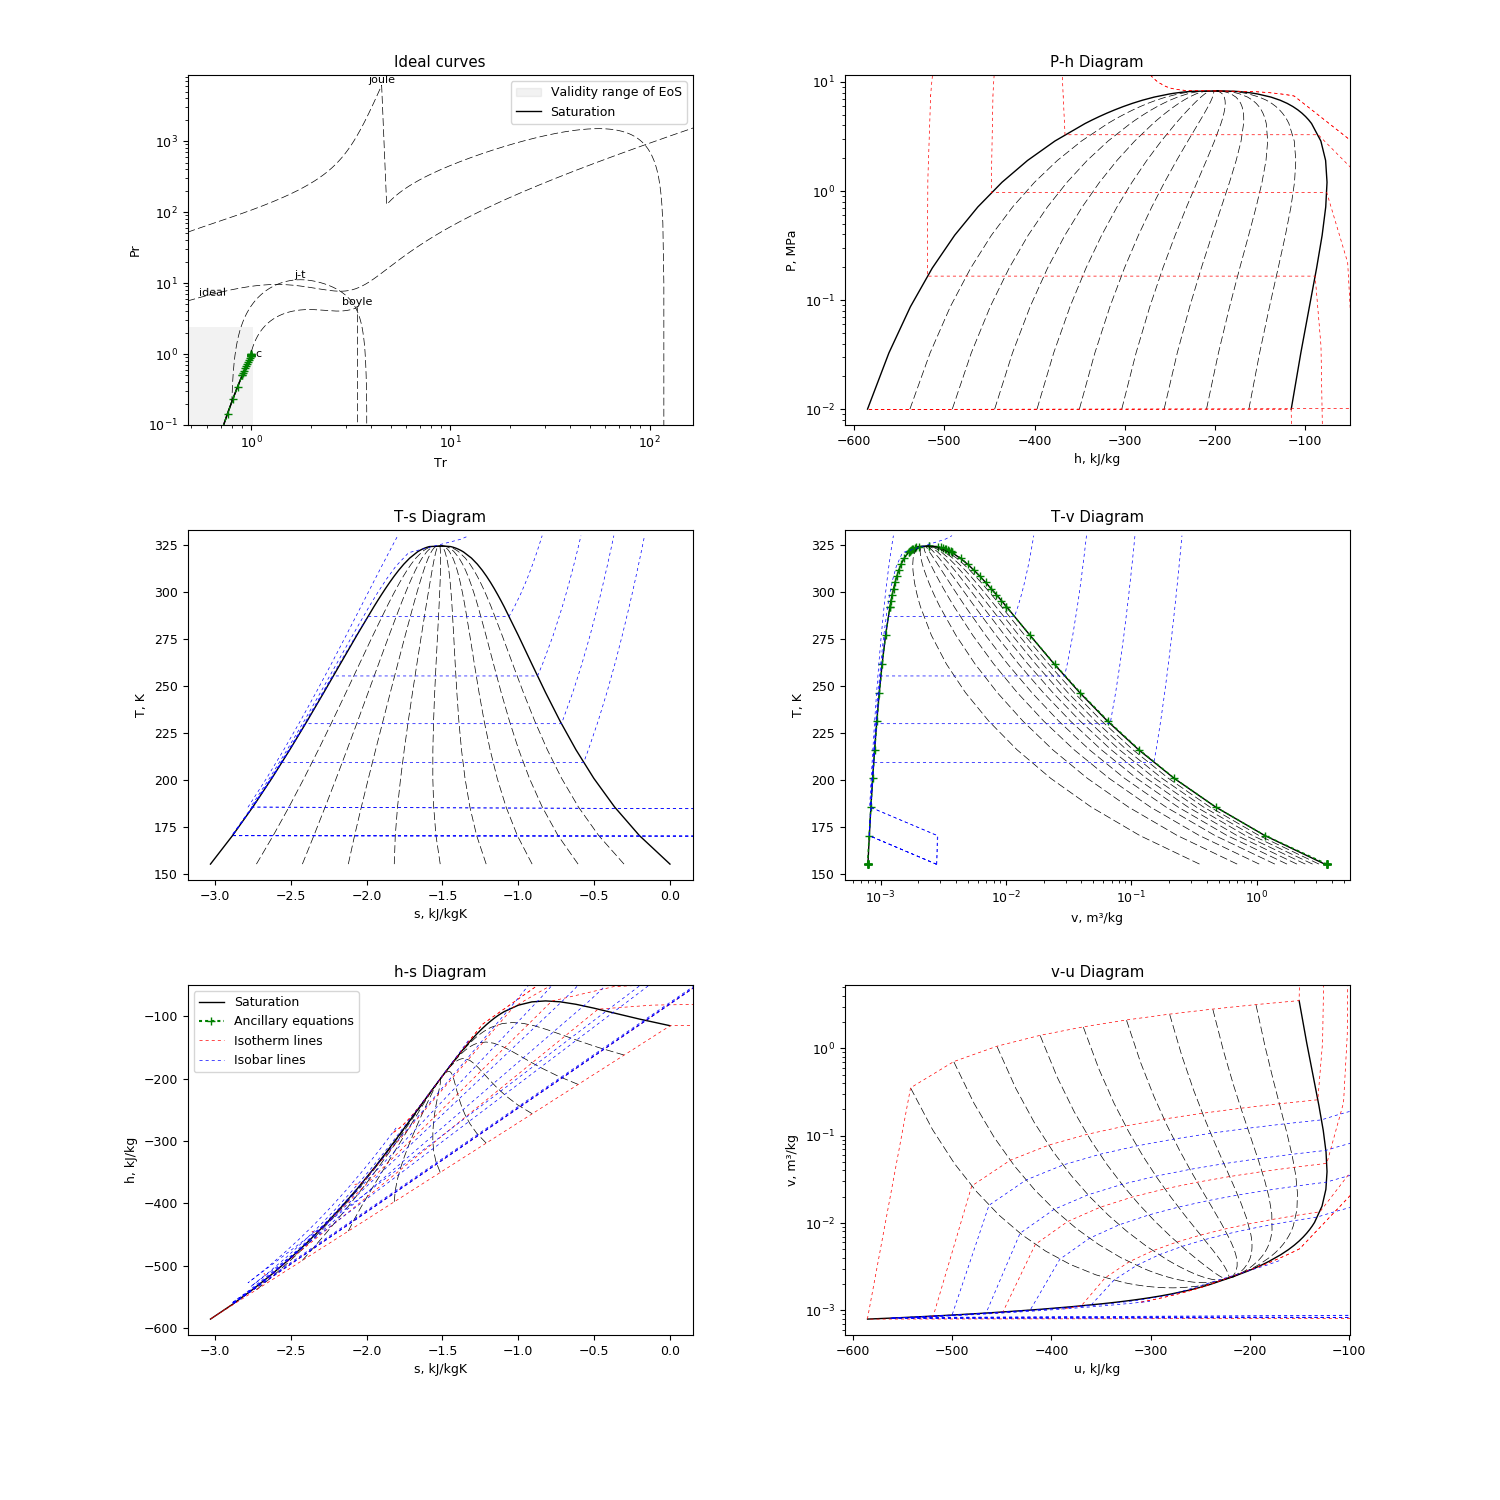
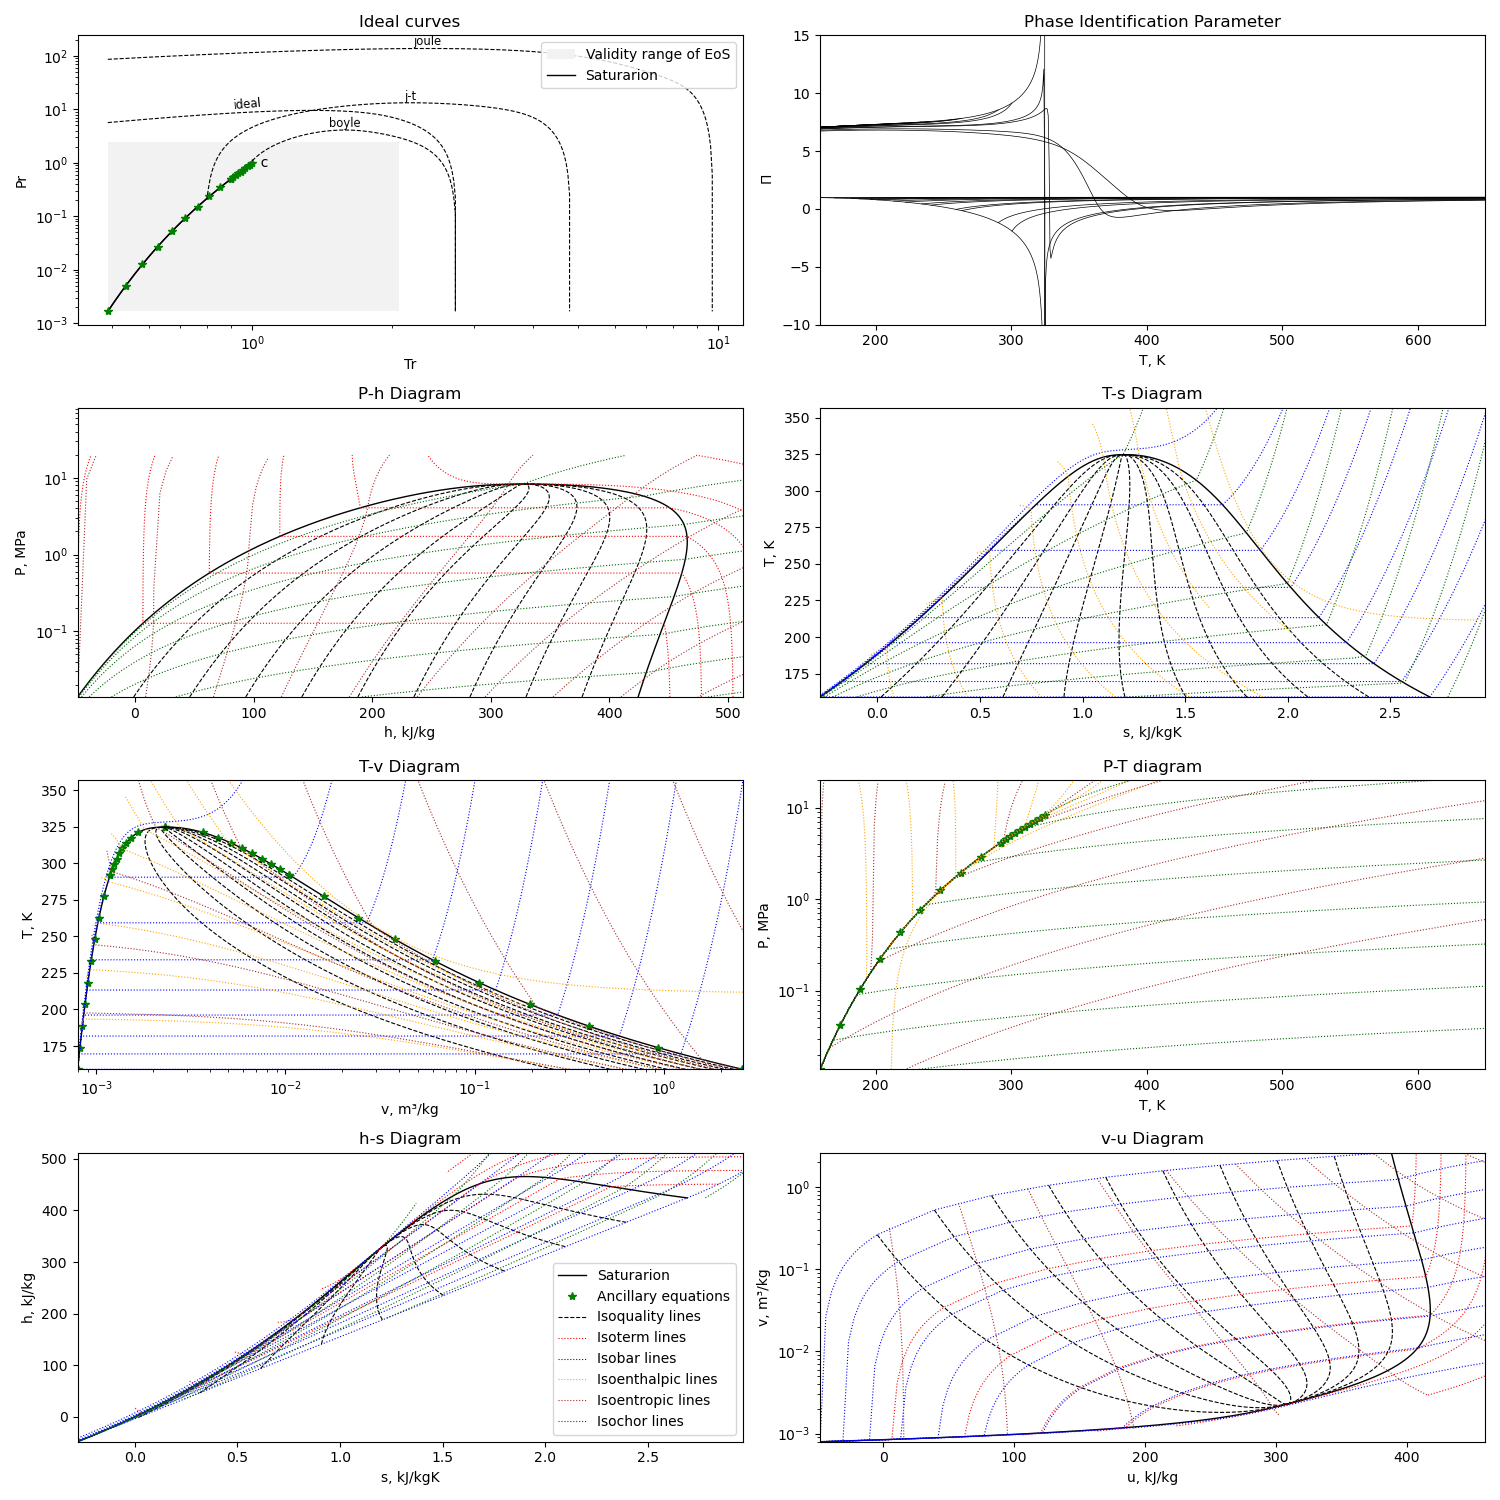
Add Thol upgraded mEoS for HCl

diff --git a/lib/mEoS/HCl.py b/lib/mEoS/HCl.py
@@ -33,22 +33,63 @@ class HCl(MEoS):
     synonym = ""
     _refPropName = "HCL"
     _coolPropName = "HydrogenChloride"
-    rhoc = unidades.Density(410.96998439164605)
-    Tc = unidades.Temperature(324.55)
-    Pc = unidades.Pressure(8263.00, "kPa")
-    M = 36.460939  # g/mol
-    Tt = unidades.Temperature(131.4)
-    Tb = unidades.Temperature(188.199)
-    f_acent = 0.12875
+    rhoc = unidades.Density(432.7913578)
+    Tc = unidades.Temperature(324.68)
+    Pc = unidades.Pressure(8313.5, "kPa")
+    M = 36.46094  # g/mol
+    Tt = unidades.Temperature(159.07)
+    Tb = unidades.Temperature(188.179)
+    f_acent = 0.131
     momentoDipolar = unidades.DipoleMoment(1.079, "Debye")
     id = 104
 
     Fi1 = {"ao_log": [1, 2.5],
+           "pow": [0, 1],
+           "ao_pow": [-4.069044527, 4.0257768311],
+           "ao_exp": [0.0033327, 0.935243, 0.209996],
+           "titao": [300/Tc, 4000/Tc, 6300/Tc]}
+
+    Fi2 = {"ao_log": [1, 2.5],
            "pow": [0, 1, -1, -2],
            "ao_pow": [7.913048, -3.217575, -4.149937e-3, 8.019202e-4],
            "ao_exp": [1.054392], "titao": [1.241138e1]}
 
     thol = {
+        "__type__": "Helmholtz",
+        "__name__": "Helmholtz equation of state for hydrogen chloride of Thol"
+                    " et al. (2018)",
+        "__doi__": {"autor": "Thol, M., Dubberke, F.H., Baumhögger, E., Span, "
+                             "R., Vrabec, J.",
+                    "title": "Speed of Sound Measurements and a Fundamental "
+                             "Equation of State for Hydrogen Chloride",
+                    "ref": "J. Chem. Eng. Data 63(7) (2018) 2533-2547",
+                    "doi": "10.1021/acs.jced.7b01031"},
+
+        "R": 8.3144598,
+        "cp": Fi1,
+        "ref": "OTO",
+
+        "Tmin": Tt, "Tmax": 670, "Pmax": 20000.0, "rhomax": 35,
+
+        "nr1": [0.01952802, 1.926809, -2.835744, -0.2276121, 0.08843713],
+        "d1": [4, 1, 1, 2, 3],
+        "t1": [1, 0.553, 1.037, 0.817, 0.378],
+
+        "nr2": [-2.433471, -0.2636625, 0.6307008, -0.6382638, -0.006851438],
+        "d2": [1, 3, 2, 2, 7],
+        "t2": [1.523, 2.656, 1.338, 2.828, 0.75],
+        "c2": [2, 2, 1, 2, 1],
+        "gamma2": [1]*5,
+
+        "nr3": [7.363661, -1.262993, -0.006539739, -0.8752692, -3.224835],
+        "d3": [1, 1, 3, 2, 2],
+        "t3": [0.644, 2.892, 0.76, 1.323, 0.693],
+        "alfa3": [1.141, 1.162, 34.6, 1.175, 0.99],
+        "beta3": [0.95, 0.92, 1550, 1.2, 0.89],
+        "gamma3": [1.56, 1.14, 1.06, 0.94, 1.25],
+        "epsilon3": [0.855, 0.91, 0.942, 0.702, 0.487]}
+
+    thol2014 = {
         "__type__": "Helmholtz",
         "__name__": "Helmholtz equation of state for hydrogen chloride of Thol"
                     " et al. (2013)",
@@ -59,10 +100,11 @@ class HCl(MEoS):
                     "doi": "10.1007/s10765-014-1633-1"},
 
         "R": 8.314472,
-        "cp": Fi1,
+        "cp": Fi2,
         "ref": "OTO",
 
         "Tmin": 155.0, "Tmax": 330.0, "Pmax": 20000.0, "rhomax": 33.8145,
+        "Tc": 324.55, "rhoc": 11.271514, "M": 36.460939,
 
         "nr1": [-.40937325, 0.943994574, -1.78830477, 0.128619044,
                 4.39018427e-3, 0.0130480908, 1.69387782e-3],
@@ -77,7 +119,7 @@ class HCl(MEoS):
         "c2": [1, 1, 1, 1, 2, 2, 2, 2, 3],
         "gamma2": [1]*9}
 
-    eq = (thol, )
+    eq = (thol, thol2014)
 
     _surface = {
         "__doi__": {
@@ -90,16 +132,16 @@ class HCl(MEoS):
 
     _vapor_Pressure = {
         "eq": 3,
-        "n": [-0.01065138, -6.15979914, 1.55860976, -8.42734117],
-        "t": [1/2, 2/2, 6/2, 11/2]}
+        "n": [-6.73, 1.464, -1.994, 1.283, -2.062],
+        "t": [1, 1.5, 3.12, 3.95, 4.8]}
     _liquid_Density = {
         "eq": 1,
-        "n": [1.89232034, 0.83621066, -0.22094602, 4.70971253, -5.34396174],
-        "t": [1/3, 2/3, 4/3, 11/3, 13/3]}
+        "n": [2.547, -0.631, 1.75, -1.922, 1.03],
+        "t": [0.418, 1.12, 1.86, 2.66, 3.57]}
     _vapor_Density = {
         "eq": 2,
-        "n": [-2.95523223, -8.10448179, -14.78392979, -87.13352586],
-        "t": [1.29/3, 4.2/3, 11.1/3, 24/3]}
+        "n": [-2.5676, -4.1055, -12.068, -29.03, -54.93, -222.7],
+        "t": [0.417, 0.923, 2.57, 5.54, 10.5, 23.3]}
 
     trnECS = {"__name__": "Huber (2018)",
 
@@ -133,12 +175,51 @@ class HCl(MEoS):
 
 class Test(TestCase):
     """Testing"""
+
     def test_thol(self):
+        """Table 4, Pag 2538"""
+        st = HCl(T=180, rhom=34)
+        self.assertEqual(round(st.P.MPa, 7), 32.0901855)
+        self.assertEqual(round(st.hM.kJkmol, 6), 143.888365)
+        self.assertEqual(round(st.sM.kJkmolK, 8), -4.43856331)
+        self.assertEqual(round(st.w, 5), 1245.21167)
+        # self.assertEqual(round(st.aM.kJkmol, 9), -0.999224087)
+
+        st = HCl(T=180, rhom=0.04)
+        self.assertEqual(round(st.P.MPa, 10), 0.0586755086)
+        self.assertEqual(round(st.hM.kJkmol, 4), 16001.7182)
+        self.assertEqual(round(st.sM.kJkmolK, 7), 89.4473371)
+        self.assertEqual(round(st.w, 6), 237.450444)
+        self.assertEqual(round(st.aM.kJkmol, 5), -1565.69018)
+
+        st = HCl(T=300, rhom=25)
+        self.assertEqual(round(st.P.MPa, 7), 20.5806246)
+        self.assertEqual(round(st.hM.kJkmol, 5), 7239.11135)
+        self.assertEqual(round(st.sM.kJkmolK, 7), 27.2001575)
+        self.assertEqual(round(st.w, 6), 691.262823)
+        self.assertEqual(round(st.aM.kJkmol, 5), -1744.16090)
+
+        st = HCl(T=300, rhom=3)
+        self.assertEqual(round(st.P.MPa, 8), 4.70517077)
+        self.assertEqual(round(st.hM.kJkmol, 4), 16399.1807)
+        self.assertEqual(round(st.sM.kJkmolK, 7), 60.1776839)
+        self.assertEqual(round(st.w, 6), 243.922254)
+        self.assertEqual(round(st.aM.kJkmol, 5), -3222.51469)
+
+        st = HCl(T=400, rhom=18)
+        self.assertEqual(round(st.P.MPa, 7), 36.1071944)
+        self.assertEqual(round(st.hM.kJkmol, 4), 13798.3760)
+        self.assertEqual(round(st.sM.kJkmolK, 7), 44.0061792)
+        self.assertEqual(round(st.w, 6), 515.047201)
+        self.assertEqual(round(st.aM.kJkmol, 5), -5810.05088)
+
+
+    def test_thol2014(self):
         """Table 9, Pag 26"""
         # Discard the last 4 number, I'm fairly sure is a problem with the
         # significative figures in the equation parameters in paper
 
-        st = HCl(T=170, rho=0.01)
+        st = HCl(T=170, rho=0.01, eq=1)
         self.assertEqual(round(st.P.MPa, 9), 0.000387586)
         self.assertEqual(round(st.h.kJkg, 5), -102.41433)
         self.assertEqual(round(st.s.kJkgK, 5), 0.82032)
@@ -146,7 +227,7 @@ class Test(TestCase):
         self.assertEqual(round(st.cp.kJkgK, 5), 0.79948)
         self.assertEqual(round(st.w, 5), 232.89853)
 
-        st = HCl(T=170, rho=1230)
+        st = HCl(T=170, rho=1230, eq=1)
         self.assertEqual(round(st.P.MPa, 4), 1.2292)
         self.assertEqual(round(st.h.kJkg, 5), -561.33940)
         self.assertEqual(round(st.s.kJkgK, 5), -2.88832)
@@ -154,7 +235,7 @@ class Test(TestCase):
         self.assertEqual(round(st.cp.kJkgK, 5), 1.55394)
         self.assertEqual(round(st.w, 3), 999.439)
 
-        st = HCl(T=280, rho=0.1)
+        st = HCl(T=280, rho=0.1, eq=1)
         self.assertEqual(round(st.P.MPa, 5), 0.00638)
         self.assertEqual(round(st.h.kJkg, 4), -14.6144)
         self.assertEqual(round(st.s.kJkgK, 5), 0.58003)
@@ -162,16 +243,17 @@ class Test(TestCase):
         self.assertEqual(round(st.cp.kJkgK, 5), 0.80008)
         self.assertEqual(round(st.w, 5), 298.83636)
 
-        st = HCl(T=280, rho=900)
-        self.assertEqual(round(st.P.MPa, 4), 3.4219)
+        st = HCl(T=280, rho=900, eq=1)
+        self.assertEqual(round(st.P.MPa, 5), 3.42191)
         self.assertEqual(round(st.h.kJkg, 5), -371.03600)
         self.assertEqual(round(st.s.kJkgK, 5), -2.04410)
         self.assertEqual(round(st.cv.kJkgK, 5), 0.96150)
         self.assertEqual(round(st.cp.kJkgK, 5), 2.15083)
         self.assertEqual(round(st.w, 4), 577.7828)
 
-    # def test_Huber(self):
-    #     """Table 7, pag 266"""
-    #     st = HCl(T=292.2, rhom=23.87)
-    #     self.assertEqual(round(st.mu.muPas, 5), 92.63275)
-    #     self.assertEqual(round(st.k.mWmK, 4), 199.4777)
+    def test_Huber(self):
+        """Table 7, pag 266"""
+        st = HCl(T=292.2, rhom=23.87)
+        # self.assertEqual(round(st.mu.muPas, 5), 92.63275)
+        self.assertEqual(round(st.mu.muPas, 5), 92.63348)
+        self.assertEqual(round(st.k.mWmK, 4), 199.4777)
